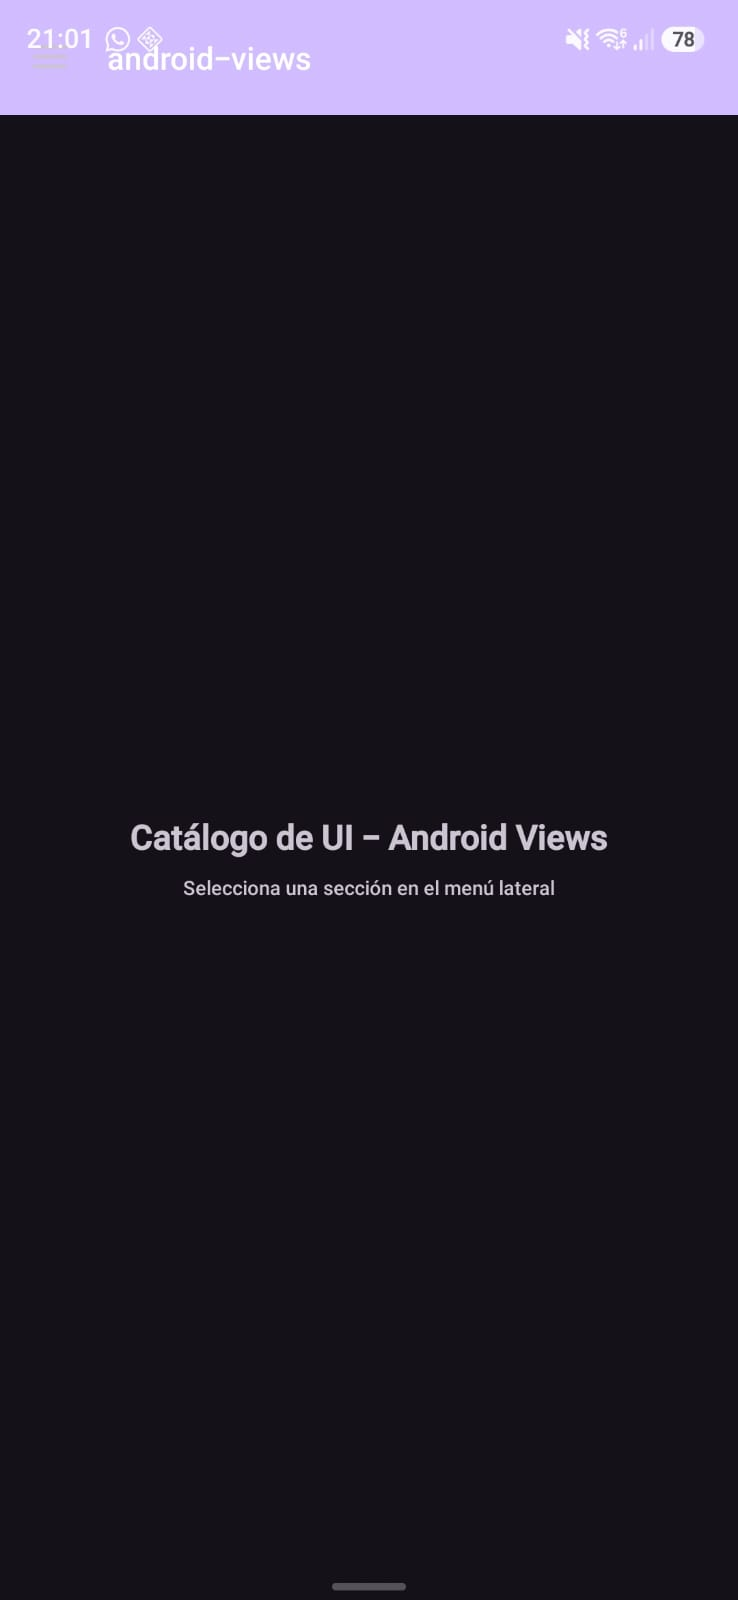
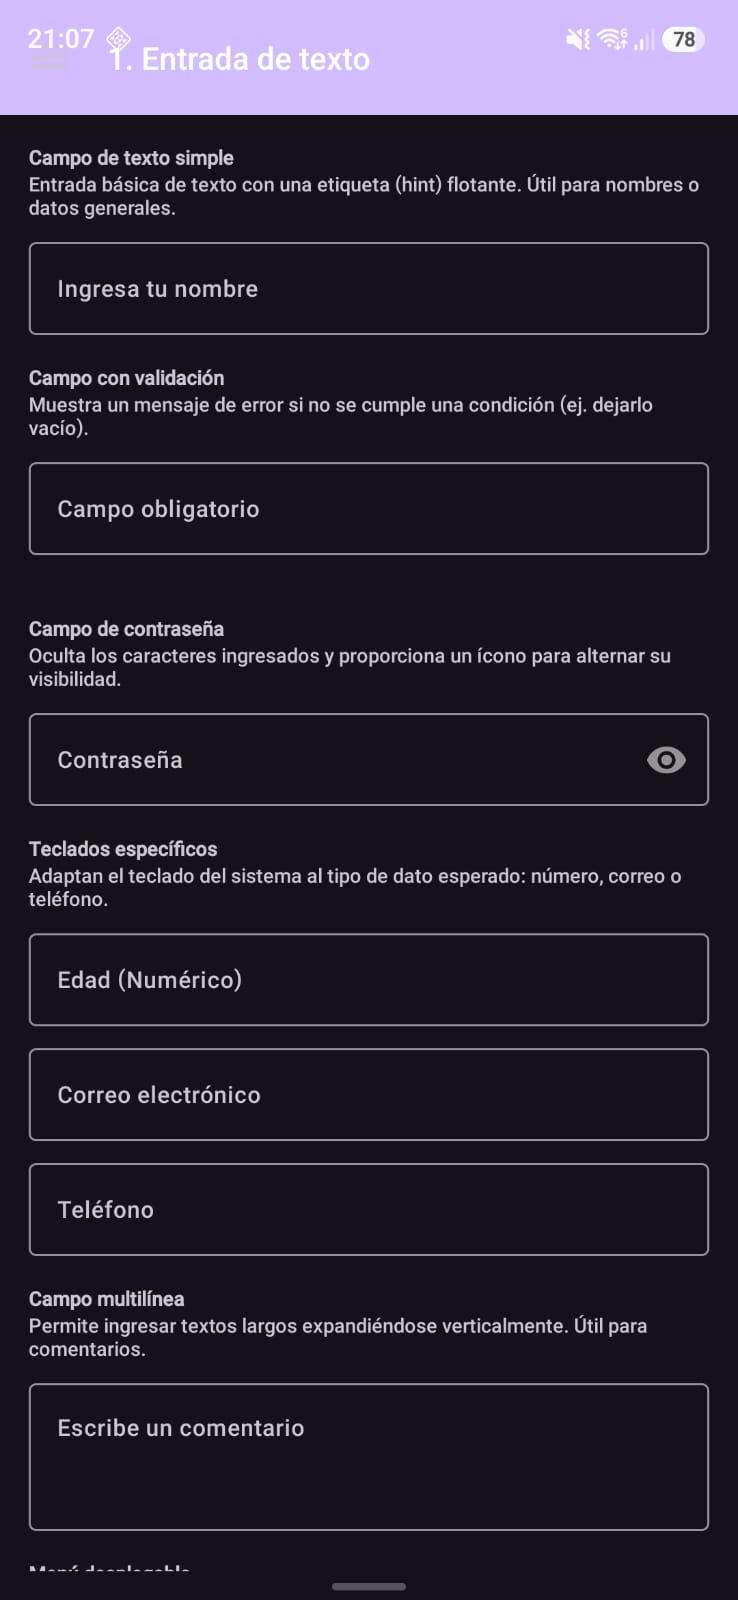
Sección 2 de Views completada - Botones y Acciones

diff --git a/android-views/app/src/main/java/com/gmail/brandonvel04/android_views/Section2Fragment.kt b/android-views/app/src/main/java/com/gmail/brandonvel04/android_views/Section2Fragment.kt
@@ -1,0 +1,68 @@
+package com.gmail.brandonvel04.android_views
+
+import android.os.Bundle
+import android.os.Handler
+import android.os.Looper
+import android.view.LayoutInflater
+import android.view.View
+import android.view.ViewGroup
+import android.widget.Toast
+import androidx.fragment.app.Fragment
+import com.google.android.material.button.MaterialButton
+import com.google.android.material.button.MaterialButtonToggleGroup
+import com.google.android.material.floatingactionbutton.ExtendedFloatingActionButton
+import com.google.android.material.floatingactionbutton.FloatingActionButton
+
+class Section2Fragment : Fragment() {
+
+    override fun onCreateView(
+        inflater: LayoutInflater, container: ViewGroup?,
+        savedInstanceState: Bundle?
+    ): View? {
+        val view = inflater.inflate(R.layout.fragment_section_two, container, false)
+
+        // Función de apoyo para mostrar mensajes (Toasts)
+        fun showToast(message: String) {
+            Toast.makeText(requireContext(), message, Toast.LENGTH_SHORT).show()
+        }
+
+        // 1. Botones base
+        view.findViewById<MaterialButton>(R.id.btnFilled).setOnClickListener { showToast("Botón Relleno pulsado") }
+        view.findViewById<MaterialButton>(R.id.btnOutlined).setOnClickListener { showToast("Botón Contorno pulsado") }
+        view.findViewById<MaterialButton>(R.id.btnText).setOnClickListener { showToast("Botón de Texto pulsado") }
+
+        // 2. Botones con ícono
+        view.findViewById<MaterialButton>(R.id.btnIconText).setOnClickListener { showToast("Enviando mensaje...") }
+        view.findViewById<MaterialButton>(R.id.btnIconOnly).setOnClickListener { showToast("Cámara abierta") }
+
+        // 3. Botones Flotantes (FAB)
+        view.findViewById<FloatingActionButton>(R.id.fabNormal).setOnClickListener { showToast("FAB Normal pulsado") }
+        view.findViewById<ExtendedFloatingActionButton>(R.id.fabExtended).setOnClickListener { showToast("FAB Extendido pulsado") }
+
+        // 4. Botón de Alternancia (Toggle)
+        val toggleGroup = view.findViewById<MaterialButtonToggleGroup>(R.id.toggleGroup)
+        toggleGroup.addOnButtonCheckedListener { group, checkedId, isChecked ->
+            if (isChecked) {
+                val button = view.findViewById<MaterialButton>(checkedId)
+                showToast("Seleccionado: ${button.text}")
+            }
+        }
+
+        // 5. Botón de estado de carga
+        val btnLoading = view.findViewById<MaterialButton>(R.id.btnLoading)
+        btnLoading.setOnClickListener {
+            // Deshabilita el botón temporalmente para simular carga
+            btnLoading.isEnabled = false
+            btnLoading.text = "Cargando..."
+
+            // Simula una tarea de 2 segundos
+            Handler(Looper.getMainLooper()).postDelayed({
+                btnLoading.isEnabled = true
+                btnLoading.text = "Púlsame para cargar"
+                showToast("¡Carga completada!")
+            }, 2000)
+        }
+
+        return view
+    }
+}

diff --git a/android-views/app/src/main/java/com/gmail/brandonvel04/android_views/MainActivity.kt b/android-views/app/src/main/java/com/gmail/brandonvel04/android_views/MainActivity.kt
@@ -41,6 +41,7 @@ class MainActivity : AppCompatActivity() {
             val fragment = when (menuItem.itemId) {
                 R.id.nav_home -> HomeFragment()
                 R.id.nav_sec1 -> Section1Fragment()
+                R.id.nav_sec2 -> Section2Fragment()
                 else -> HomeFragment()
             }
 
